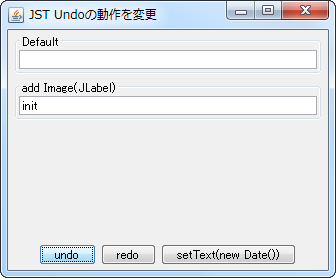
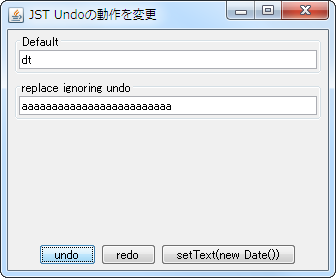
Fix old title border text

diff --git a/ReplaceUndoableEdit/src/java/example/MainPanel.java b/ReplaceUndoableEdit/src/java/example/MainPanel.java
@@ -120,7 +120,7 @@ public class MainPanel extends JPanel {
         box.setBorder(BorderFactory.createEmptyBorder(5,5,5,5));
         box.add(makePanel("Default", tf));
         box.add(Box.createVerticalStrut(5));
-        box.add(makePanel("add Image(JLabel)", field));
+        box.add(makePanel("replace ignoring undo", field));
 
         add(box, BorderLayout.NORTH);
         add(p, BorderLayout.SOUTH);
